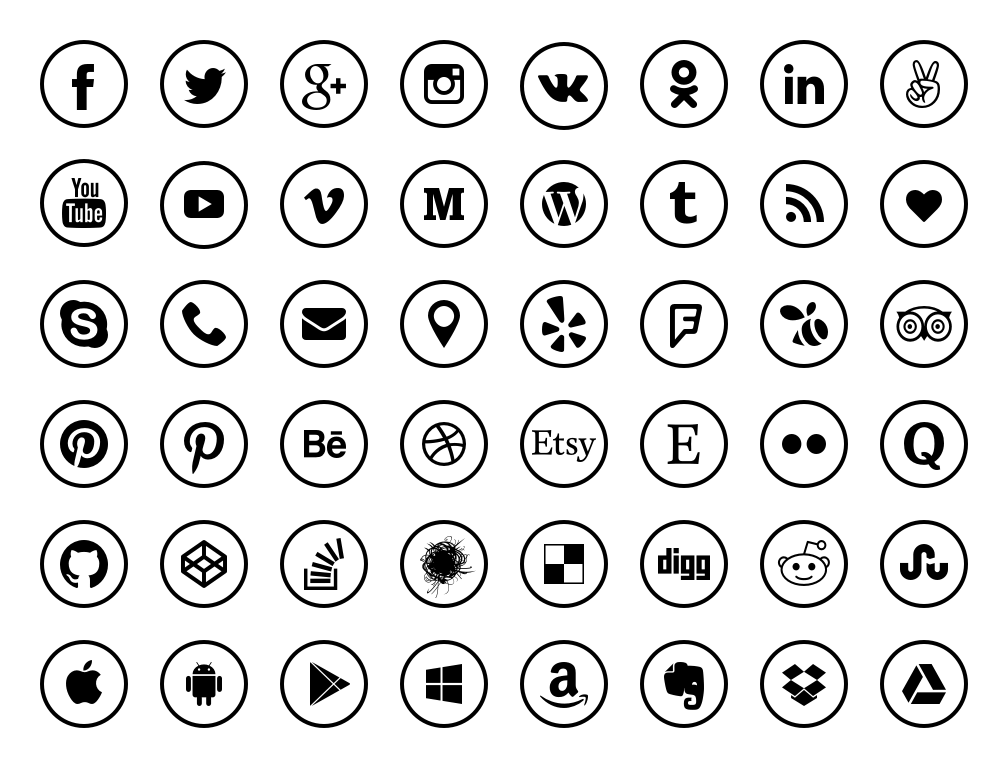
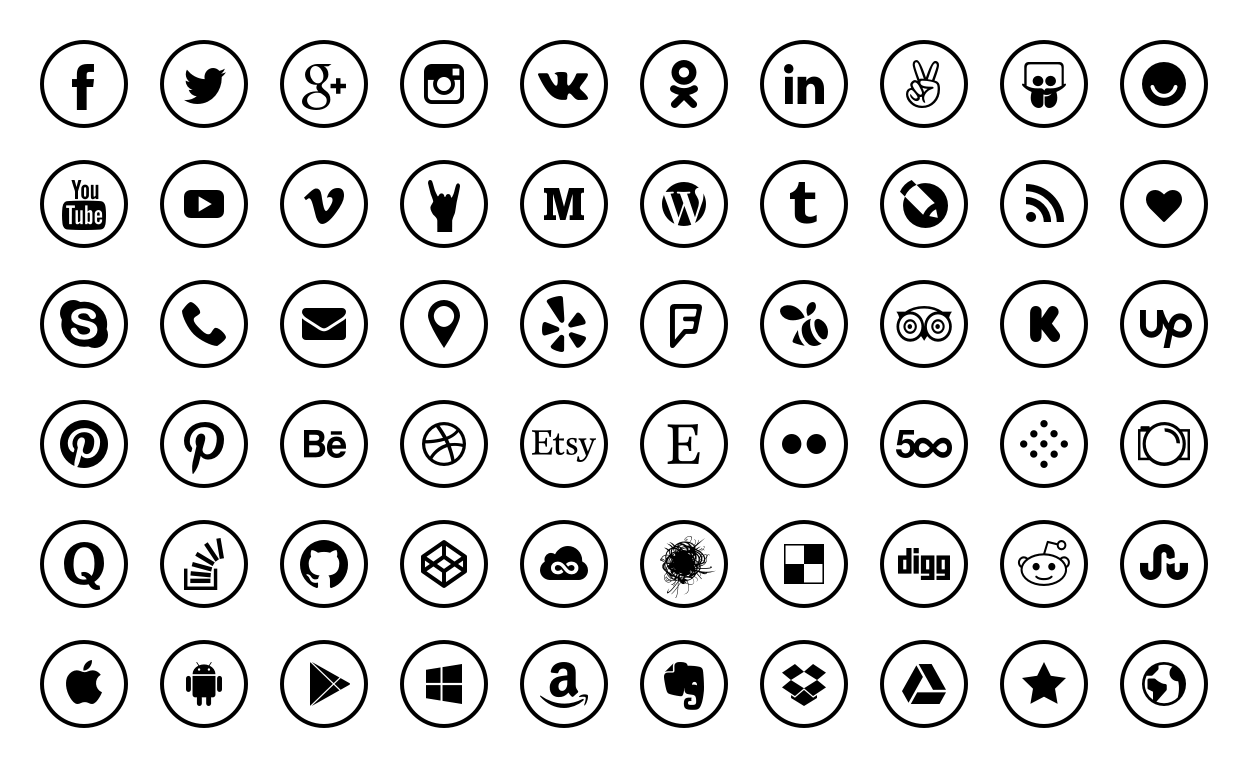
Update README.md

Changed region(s): [[0.0308, 0.0312, 0.9841, 0.9688]]

diff --git a/README.md b/README.md
@@ -1,8 +1,8 @@
 # Social media icons
 
-48 social media icons in [Sketch app resource file](https://raw.githubusercontent.com/konsav/social-icons/master/social-icons.sketch).
+60 social media icons in [Sketch app resource file](https://raw.githubusercontent.com/konsav/social-icons/master/social-icons.sketch).
 
-<img src="https://raw.githubusercontent.com/konsav/social-icons/master/readme-images/preview.png" alt="48 social media icons" width="540">
+<img src="https://raw.githubusercontent.com/konsav/social-icons/master/readme-images/preview.png" alt="60 social media icons" width="624">
 
 Created with shared styles: a change of one icon colors, bounds, borders or fills applies changes to all of the icons.
 
